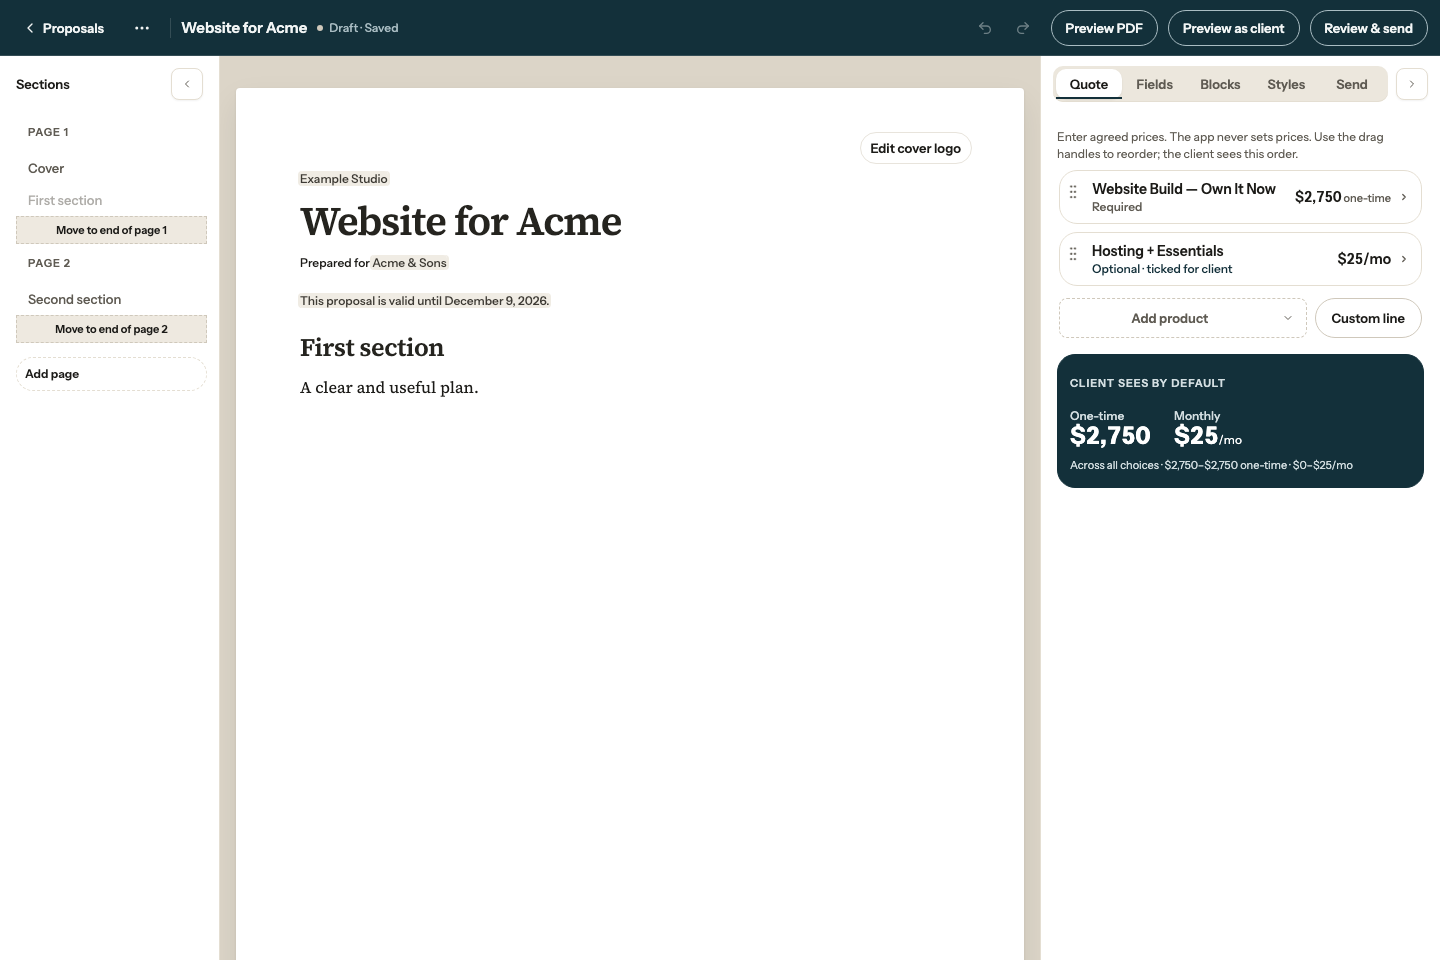
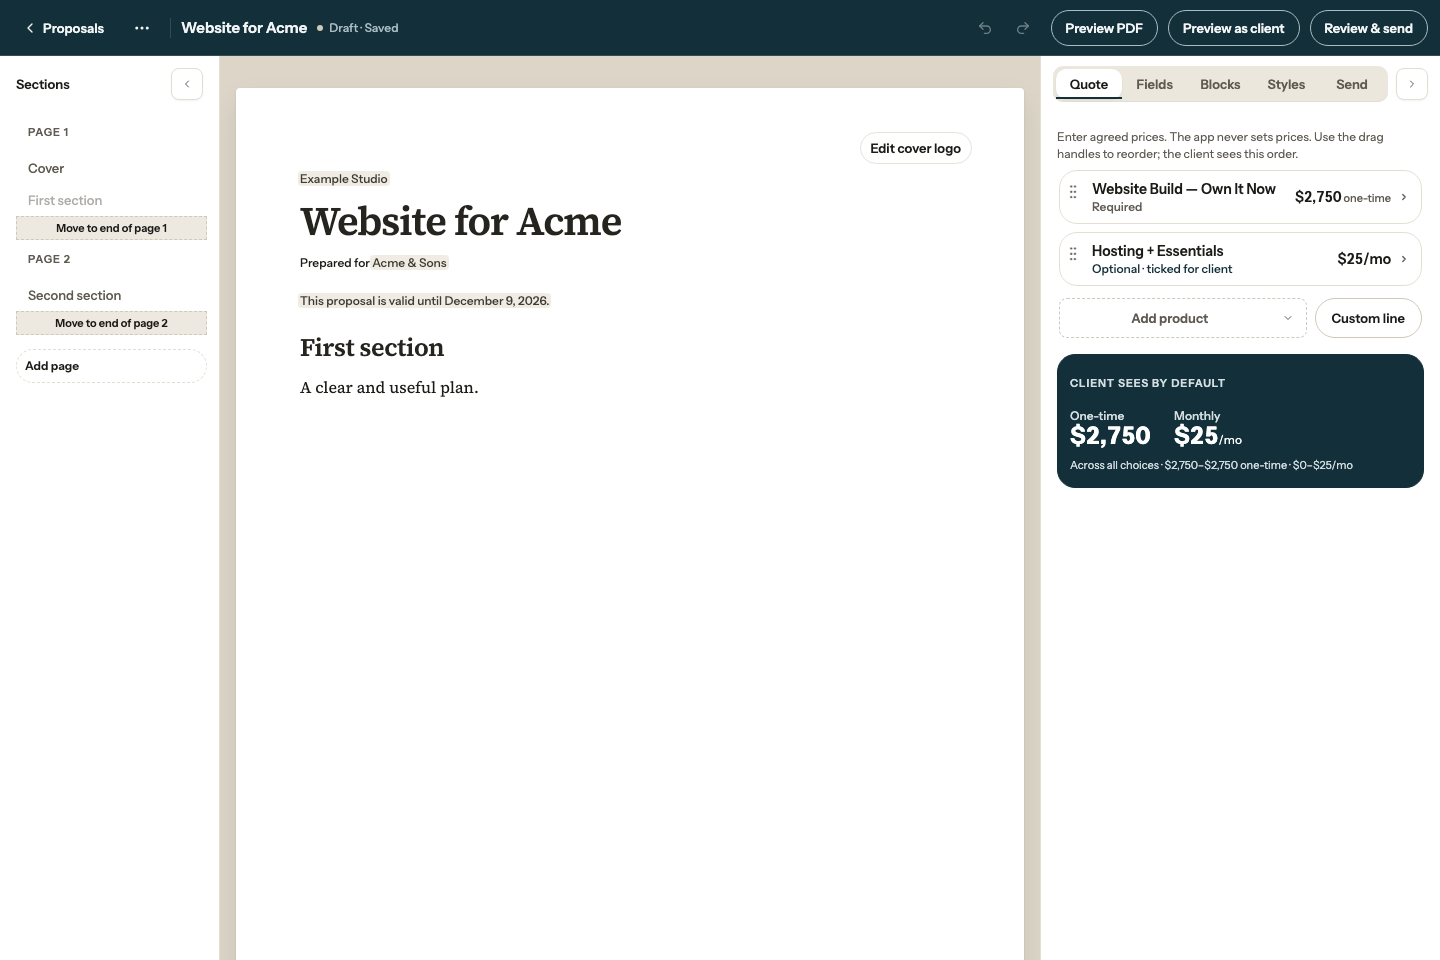
Keep section drop targets stable and share history button shape

Changed region(s): [[0.0, 0.2188, 0.1562, 0.4062]]

diff --git a/src/app/editor.css b/src/app/editor.css
@@ -2972,13 +2972,14 @@
     background: var(--ai);
   }
   .sections-nav .outline-page-end {
-    min-height: 8px;
-  }
-  .sections-nav .outline-page-end[data-dragging] {
-    min-height: 28px;
+    /* Reserve the slot so showing its label cannot move later drop targets. */
+    height: 24px;
     display: grid;
     place-items: center;
-    border: 1px dashed var(--border-strong);
+    border: 1px dashed transparent;
+  }
+  .sections-nav .outline-page-end[data-dragging] {
+    border-color: var(--border-strong);
     color: var(--ink);
     background: var(--surface-sunken);
     font: 600 11px/16px var(--font-ui);
@@ -3827,6 +3828,7 @@
 
 .template-history-controls {
   display: none;
+  --round-icon-size: 36px;
 }
 @media (min-width: 700px) {
   .template-history-controls {
@@ -3839,12 +3841,7 @@
     display: inline-flex;
     align-items: center;
     justify-content: center;
-    width: 36px;
-    height: 36px;
-    min-height: 36px;
-    padding: 0;
     border: 0;
-    border-radius: var(--radius-button);
     background: none;
     color: var(--ink-muted);
     font: 500 13px/18px var(--font-ui);
@@ -4934,10 +4931,7 @@
     display: inline-flex;
     align-items: center;
     justify-content: center;
-    width: 36px;
-    height: 36px;
     border: 0;
-    border-radius: var(--radius-button);
     background: none;
     color: var(--ink-muted);
   }
@@ -8737,9 +8731,8 @@ body:has(.studio-v3-editor) {
   .studio-saved-block-editor .studio-template-main {
     gap: 16px;
   }
-  .studio-phone-menu-actions .template-history-controls button {
-    width: 44px;
-    height: 44px;
+  .studio-phone-menu-actions .template-history-controls {
+    --round-icon-size: 44px;
   }
 }
 .studio-saved-block-editor .editor-save-status[data-state="dirty"] {

diff --git a/src/components/editor/template-history-controls.tsx b/src/components/editor/template-history-controls.tsx
@@ -94,6 +94,7 @@ export function TemplateHistoryControls({
         <button
           key={c.name}
           type="button"
+          className="round-icon"
           aria-label={c.name}
           title={c.title}
           disabled={c.disabled}

diff --git a/DECISIONS.md b/DECISIONS.md
@@ -887,5 +887,5 @@ Section time uses the existing engagement aggregates, grouped by section label. 
 
 - Staff tablists and Studio's Templates / Saved blocks navigation draw a shared square-ended selection bar on the rail. Tab corner radii and selection marks are independent. Proposal records have a lifecycle display and action toolbar, with no separate tablist.
 - Staff actions use paired foreground and background colors for outline, ghost, filled ink, and clay states. Ink surfaces provide the shared white label and translucent hover paint. The proposal editor's Proposals breadcrumb is a real link with a Lucide chevron. Regular navigation still goes through the editor's save and leave guard.
-- The Sections header and list use the same surface, with the collapse control inset. The page sortable keeps its end drop area. “Move to end of page N” is visible during section dragging only, with no idle action or keyboard stop.
+- The Sections header and list use the same surface, with the collapse control inset. The page sortable keeps a fixed-height end drop area so showing the hint cannot move later targets. “Move to end of page N” is visible during section dragging only, with no idle action or keyboard stop.
 - Round icon controls share a single size for both axes. In-column insert controls move inside the frame. Where a column has enough padding they stack in that gutter, and compact columns use a short row along the inner edge. Editor chrome stays outside the measured document content.
